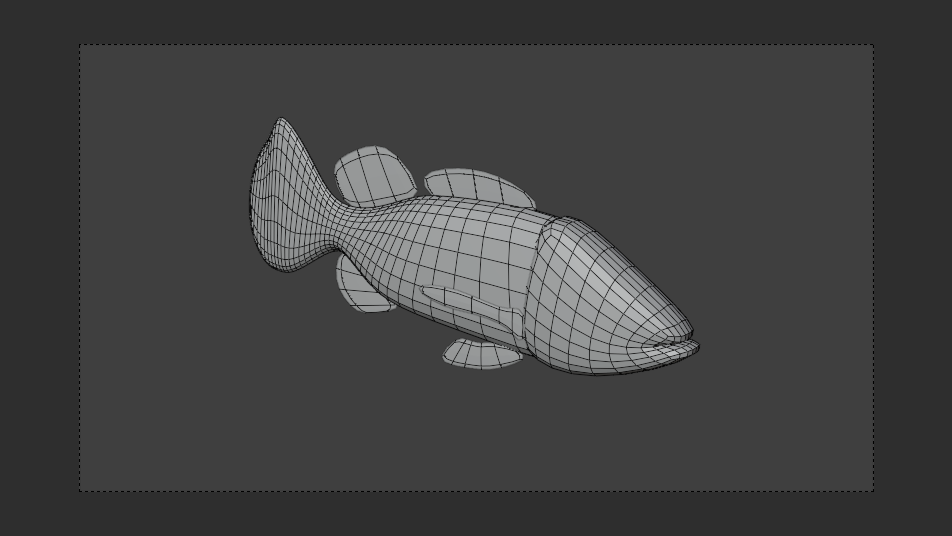
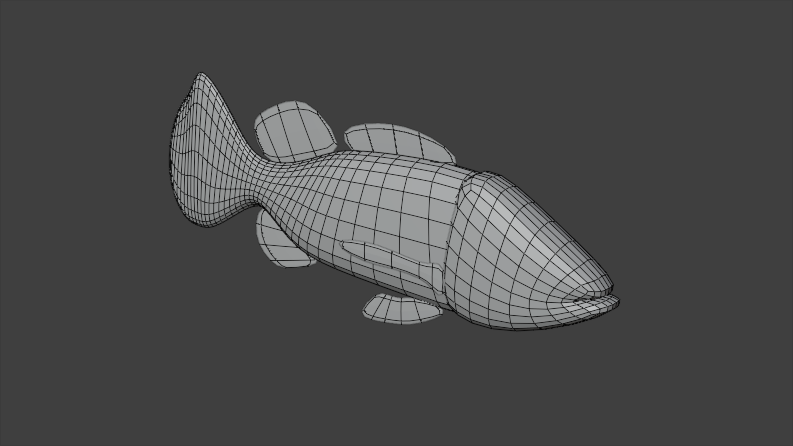
added: tucanare post

Changed region(s): [[0.2119, 0.1457, 0.7869, 0.7578]]

diff --git a/docs/assets/stylesheets/extra.css b/docs/assets/stylesheets/extra.css
@@ -1,0 +1,15 @@
+article img {
+    display: block;
+    margin-left: auto;
+    margin-right: auto;
+    max-width: 100%; 
+    height: auto;
+}
+
+figcaption {
+    text-align: center;
+    font-style: normal;
+    font-size: 1.0em;
+    margin-top: 10px;
+    color: #444343;
+}

diff --git a/docs/blog/posts/tucunare.md b/docs/blog/posts/tucunare.md
@@ -1,0 +1,59 @@
+---
+date: 2025-05-15
+categories:
+    - AKCIT
+tags:
+    - Blender
+    - Modelagem Orgânica
+    - Animal
+---
+
+# Tucunaré
+
+Essa foi a minha primeira demanda como artista 3D para o AKCIT. Confesso que fiquei um pouco intimidado pois não tinha uma habilidade muito grande com modelagens orgânicas (até hoje me considero iniciante). Mas, considerando o nível de habilidade que possuía de Blender e o prazo para a entrega, acredito que o resultado foi satisfatório o suficiente.
+
+## Objetivo
+
+Para conseguir atender à demanda do Museu Câmara Cascudo no projeto [Peixes do semiárido - nadando no seco](../../akcit/posts/peixes.md), eu precisava modelar, texturizar, riggar e animar um Tucunaré (*Chichla monoculus*) representado abaixo.
+
+![Desenho da espécie Chichla monoculus](../../img/peixes/tucunare_referencia_01.png){ width="600"}
+
+<figcaption>Representação em desenho da espécie <b><i>Chichla monoculus</i></b>.</figcaption>
+
+## Processo
+
+### Modelagem
+
+De começo, seguindo uma imagem de referência, fiz a blocagem das partes base do peixe, como cabeça, corpo e barbatanas, com o intuito de juntá-las depois.
+
+![Primeira versão da modelagem](../../img/peixes/tucunare_01.png){ width="600"}
+
+A segunda iteração serviu para modelar a boca dele.
+
+![Segunda versão da modelagem](../../img/peixes/tucunare_02.png){ width="600"}
+
+Na terceira, consegui modelar os olhos e juntar a cabeça ao restante do corpo, bem como as barbatanas.
+
+![Terceira versão da modelagem](../../img/peixes/tucunare_03.png){ width="600"}
+
+### Texturização
+
+Como eu ainda não possuía nenhum tipo de experiência ou conhecimento prévio sobre texturização de formas orgânicas (principalmente animais) e principalmente pela demanda, optei pelo caminho mais fácil que foi utilizar uma imagem já pronta e realizar o unwrap do modelo para que coubesse perfeitamente nela.
+
+![UV unwrap do modelo aplicado na textura](../../img/peixes/tucunare_unwrap.png){ width="600"}
+
+Além disse, utilizei o site [NormalMap-Online](https://cpetry.github.io/NormalMap-Online/) para gerar um normal map baseado na imagem que utilizei, a fim de simular partes do peixe, como as escamas.
+
+![Normal map gerado no NormalMap-Online](../../img/peixes/tucunare_fbase_normal.png){ width="600"}
+
+Essa abordagem não foi das melhores, gerando problemas de coesão como mostrado nas imagens abaixo. Mas, dado o tempo que fui imposto, imagino que tenha sido bom o bastante, principalmente levando em conta que os modelos seriam vistos por meio de uma projeção em uma sala fechado, com um vídeo pré renderizado da Unity.
+
+![Problemas no normal map do tucunaré](../../img/peixes/tucunare_escama.png){ width="600"}
+
+<figcaption>"Escamas" nada realistas.</figcaption>
+
+![Modelo do tucunaré visto de frente](../../img/peixes/tucunare_frente.png){ width="450"}
+
+<figcaption>Parte frontal "esticada" devido ao uso da foto como textura.</figcaption>
+
+### Animação
